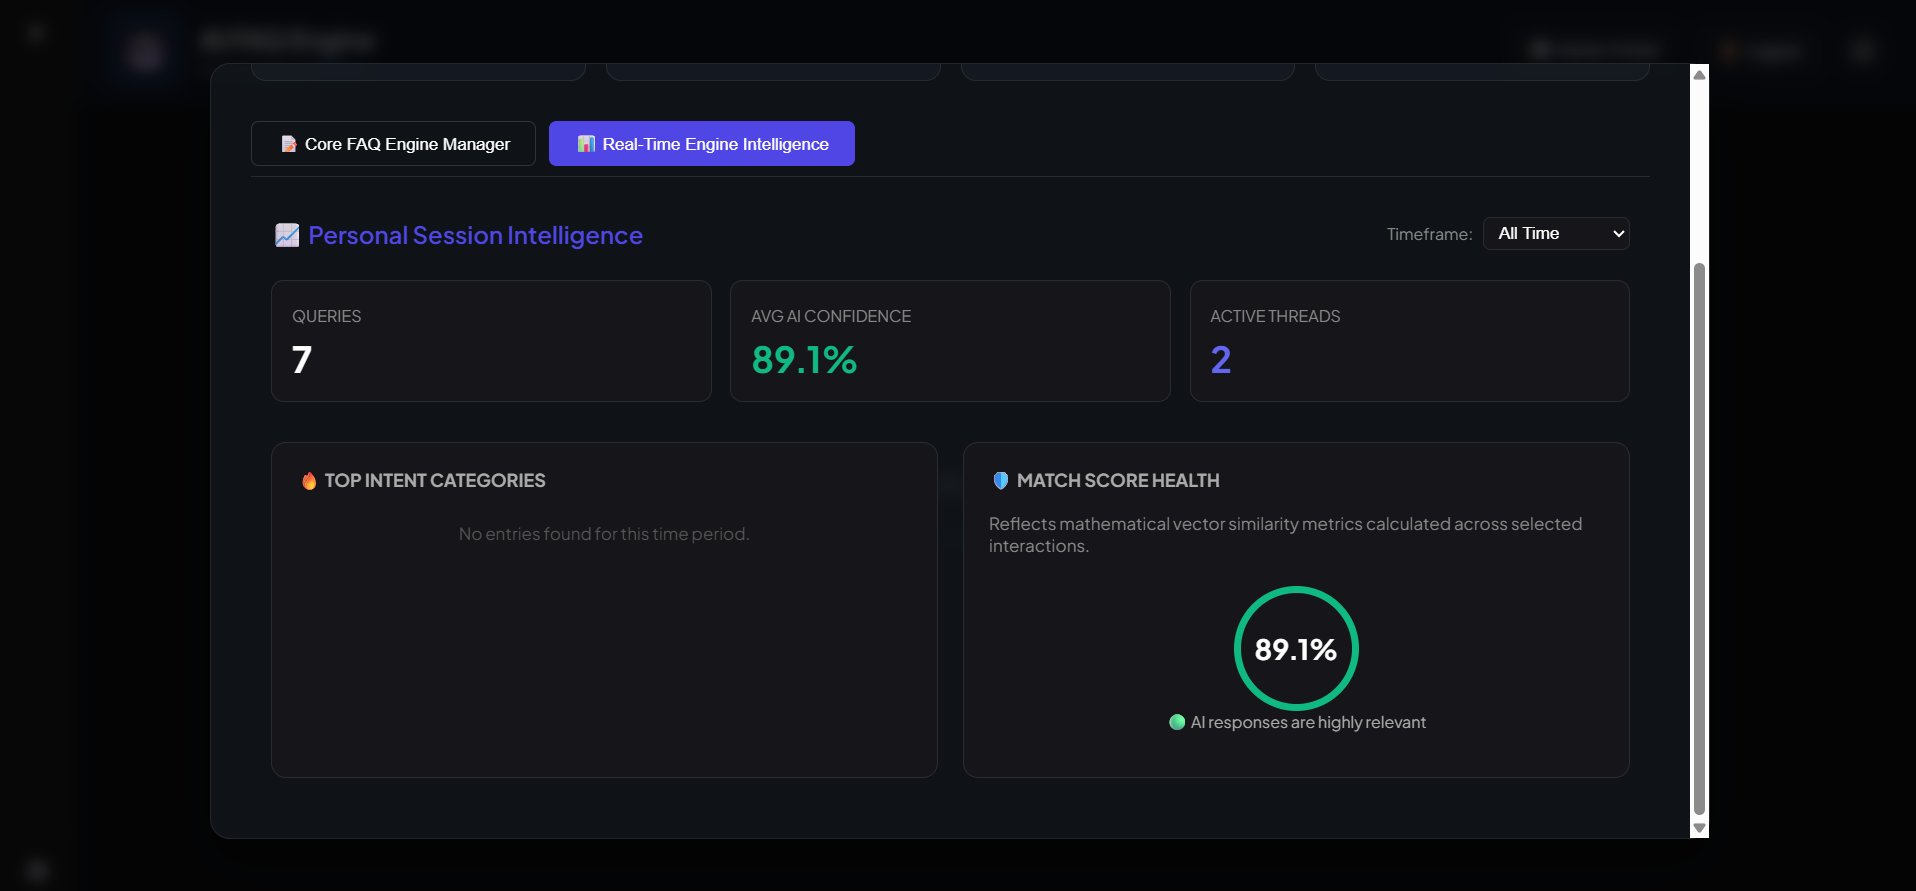
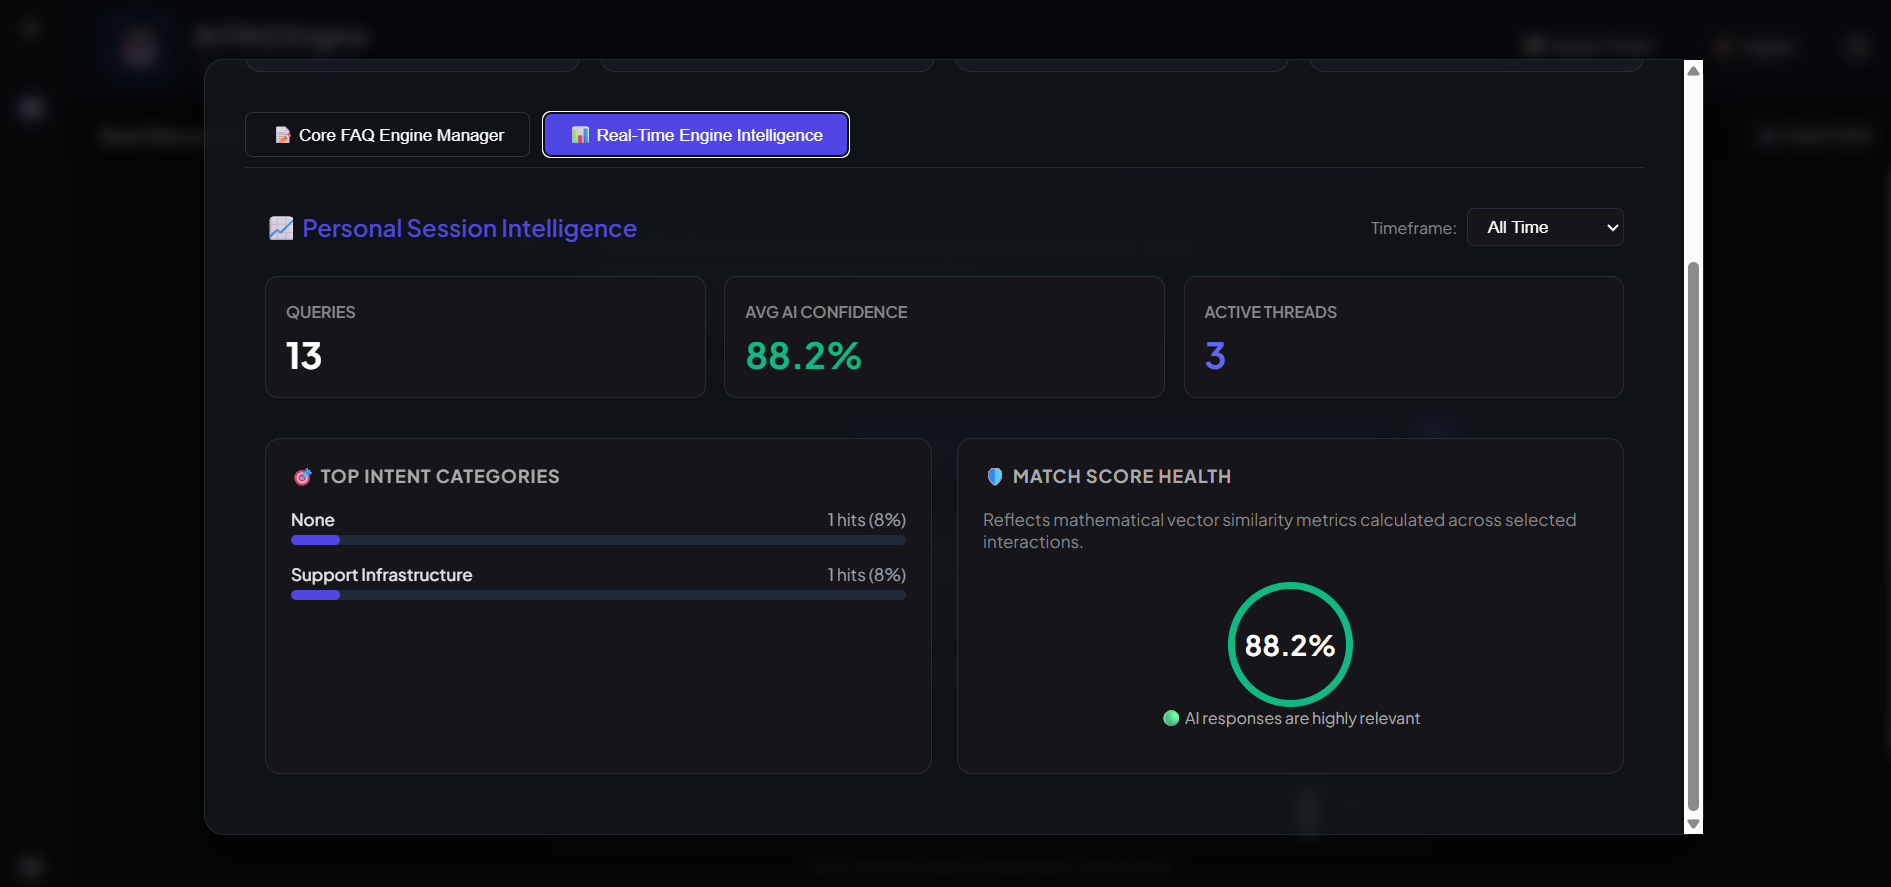
Version 13 -FAQ chatbot

diff --git a/frontend/src/components/AnalyticsDashboard.jsx b/frontend/src/components/AnalyticsDashboard.jsx
@@ -70,6 +70,7 @@ export default function AnalyticsDashboard({ chats = [] }) {
   const avgConfidenceNum = messagesWithConfidence > 0 ? totalConfidence / messagesWithConfidence : 0;
   const avgConfidence = avgConfidenceNum.toFixed(1);
 
+  // Sorted dynamic categories based on user-selected time filters
   const sortedCategories = Object.entries(categoryCounts).sort((a, b) => b[1] - a[1]);
 
   // Count active threads that have at least one message in the selected time frame
@@ -96,7 +97,7 @@ export default function AnalyticsDashboard({ chats = [] }) {
               background: '#16161a',
               color: '#fff',
               border: '1px solid #2a2a35',
-              padding: '4px 8px',
+              padding: '6px 12px',
               borderRadius: '6px',
               fontSize: '0.85rem',
               outline: 'none',
@@ -114,17 +115,17 @@ export default function AnalyticsDashboard({ chats = [] }) {
       {/* GRID LEVEL 1: HIGHLIGHT CARDS */}
       <div style={{ display: 'grid', gridTemplateColumns: 'repeat(auto-fit, minmax(140px, 1fr))', gap: '15px', marginBottom: '2rem' }}>
         <div style={{ background: '#16161a', padding: '1rem', borderRadius: '10px', border: '1px solid #2a2a35' }}>
-          <span style={{ fontSize: '0.8rem', color: '#888', textTransform: 'uppercase' }}>Queries</span>
+          <span style={{ fontSize: '0.8rem', color: '#888', textTransform: 'uppercase', fontWeight: '600' }}>Queries</span>
           <p style={{ margin: '0.5rem 0 0 0', fontSize: '1.8rem', fontWeight: 'bold', color: '#fff' }}>{totalUserQuestions}</p>
         </div>
 
         <div style={{ background: '#16161a', padding: '1rem', borderRadius: '10px', border: '1px solid #2a2a35' }}>
-          <span style={{ fontSize: '0.8rem', color: '#888', textTransform: 'uppercase' }}>Avg AI Confidence</span>
+          <span style={{ fontSize: '0.8rem', color: '#888', textTransform: 'uppercase', fontWeight: '600' }}>Avg AI Confidence</span>
           <p style={{ margin: '0.5rem 0 0 0', fontSize: '1.8rem', fontWeight: 'bold', color: '#10b981' }}>{avgConfidence}%</p>
         </div>
 
         <div style={{ background: '#16161a', padding: '1rem', borderRadius: '10px', border: '1px solid #2a2a35' }}>
-          <span style={{ fontSize: '0.8rem', color: '#888', textTransform: 'uppercase' }}>Active Threads</span>
+          <span style={{ fontSize: '0.8rem', color: '#888', textTransform: 'uppercase', fontWeight: '600' }}>Active Threads</span>
           <p style={{ margin: '0.5rem 0 0 0', fontSize: '1.8rem', fontWeight: 'bold', color: '#6366f1' }}>{activeThreadsCount}</p>
         </div>
       </div>
@@ -134,26 +135,36 @@ export default function AnalyticsDashboard({ chats = [] }) {
         
         {/* Topic Breakdown Bar Listing */}
         <div style={{ background: '#16161a', padding: '1.25rem', borderRadius: '12px', border: '1px solid #2a2a35' }}>
-          <h4 style={{ margin: '0 0 1rem 0', fontSize: '0.9rem', color: '#aaa', textTransform: 'uppercase' }}>🔥 Top Intent Categories</h4>
+          <h4 style={{ margin: '0 0 1rem 0', fontSize: '0.9rem', color: '#aaa', textTransform: 'uppercase', letterSpacing: '0.05em' }}>
+            🎯 Top Intent Categories
+          </h4>
+          
           {sortedCategories.length === 0 ? (
-            <p style={{ color: '#555', fontSize: '0.85rem', textAlign: 'center', marginTop: '1.5rem' }}>
-              No entries found for this time period.
+            <p style={{ color: '#6b7280', fontSize: '0.85rem', textAlign: 'center', marginTop: '2.5rem' }}>
+              No classified interaction intents found for this timeline window.
             </p>
           ) : (
-            <div style={{ display: 'flex', flexDirection: 'column', gap: '12px' }}>
-              {sortedCategories.map(([category, count]) => {
+            <div style={{ display: 'flex', flexDirection: 'column', gap: '14px' }}>
+              {sortedCategories.slice(0, 5).map(([category, count]) => {
                 const totalBotCount = allBotMessages.length;
                 const percentageNum = totalBotCount > 0 ? (count / totalBotCount) * 100 : 0;
                 const percentageStr = percentageNum.toFixed(0);
 
                 return (
-                  <div key={category}>
-                    <div style={{ display: 'flex', justifyContent: 'space-between', fontSize: '0.85rem', marginBottom: '4px' }}>
-                      <span style={{ color: '#ddd' }}>{category}</span>
-                      <span style={{ color: '#888' }}>{count} hits ({percentageStr}%)</span>
+                  <div key={category} style={{ display: 'flex', flexDirection: 'column', gap: '4px' }}>
+                    <div style={{ display: 'flex', justifyContent: 'space-between', fontSize: '0.85rem' }}>
+                      <span style={{ color: '#e5e7eb', fontWeight: '500' }}>{category}</span>
+                      <span style={{ color: '#9ca3af' }}>{count} hits ({percentageStr}%)</span>
                     </div>
-                    <div style={{ width: '100%', height: '6px', background: '#222', borderRadius: '3px', overflow: 'hidden' }}>
-                      <div style={{ width: `${percentageStr}%`, height: '100%', background: '#4f46e5', borderRadius: '3px' }} />
+                    {/* Visual Progress Bar Track */}
+                    <div style={{ width: '100%', height: '8px', background: '#1f2937', borderRadius: '999px', overflow: 'hidden' }}>
+                      <div style={{ 
+                        width: `${percentageStr}%`, 
+                        height: '100%', 
+                        background: '#4f46e5', 
+                        borderRadius: '999px',
+                        transition: 'width 0.5s ease-out' 
+                      }} />
                     </div>
                   </div>
                 );
@@ -165,7 +176,9 @@ export default function AnalyticsDashboard({ chats = [] }) {
         {/* Confidence Health Gauge */}
         <div style={{ background: '#16161a', padding: '1.25rem', borderRadius: '12px', border: '1px solid #2a2a35', display: 'flex', flexDirection: 'column', justifyContent: 'space-between' }}>
           <div>
-            <h4 style={{ margin: '0 0 1rem 0', fontSize: '0.9rem', color: '#aaa', textTransform: 'uppercase' }}>🛡️ Match Score Health</h4>
+            <h4 style={{ margin: '0 0 1rem 0', fontSize: '0.9rem', color: '#aaa', textTransform: 'uppercase', letterSpacing: '0.05em' }}>
+              🛡️ Match Score Health
+            </h4>
             <p style={{ fontSize: '0.85rem', color: '#888', margin: '0 0 1.5rem 0' }}>
               Reflects mathematical vector similarity metrics calculated across selected interactions.
             </p>
@@ -176,7 +189,7 @@ export default function AnalyticsDashboard({ chats = [] }) {
               display: 'inline-flex', alignItems: 'center', justifyContent: 'center', 
               width: '100px', height: '100px', borderRadius: '50%', 
               border: `6px solid ${avgConfidenceNum >= 75 ? '#10b981' : avgConfidenceNum > 0 ? '#f59e0b' : '#3a3a45'}`,
-              fontSize: '1.4rem', fontWeight: 'bold'
+              fontSize: '1.4rem', fontWeight: 'bold', transition: 'border-color 0.3s ease'
             }}>
               {avgConfidence}%
             </div>

diff --git a/frontend/src/App.jsx b/frontend/src/App.jsx
@@ -95,6 +95,10 @@ export default function App() {
         id: responseData.id || `msg_${Date.now()}_b`,
         sender: 'bot',
         text: responseData.answer || responseData.text || "No response provided.",
+        
+        // 🎯 FIXED: Explicitly assigns intent groups to ensure analytics visualization renders instantly
+        category: responseData.category || "General", 
+        
         confidence: responseData.confidence || responseData.matchScore,
         timestamp: responseData.timestamp || new Date().toISOString(),
         userQuery: text 
@@ -164,7 +168,6 @@ export default function App() {
       </main>
       {isAdminOpen && <AdminDashboard chats={chats} onClose={() => setIsAdminOpen(false)} />}
       
-      {/* ✅ FIX: Added the allChats={chats} state injection prop right here */}
       {isSettingsOpen && (
         <SettingsModal 
           user={user} 

diff --git a/README.md b/README.md
@@ -375,7 +375,7 @@ npm run dev
 # 🌐 Application Access
 
 ```text
-http://localhost:5173
+http://localhost:3000
 ```
 
 Recommended browsers: